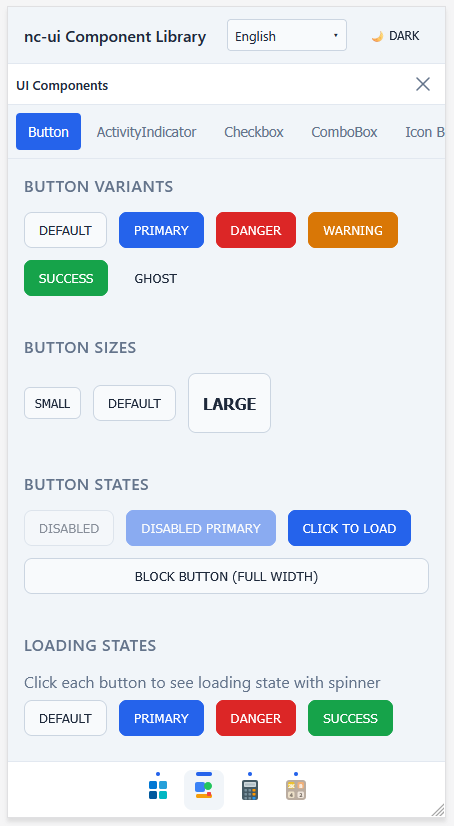
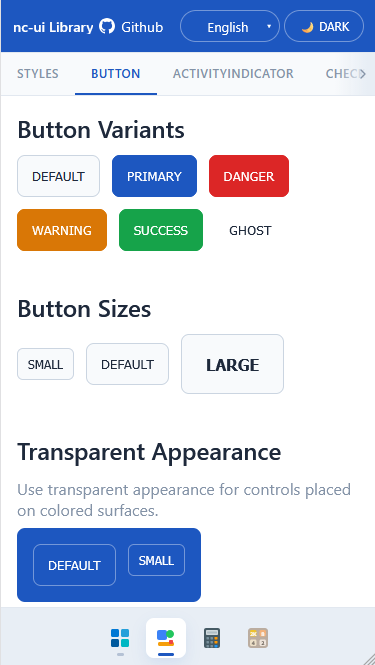
update demo images

diff --git a/README.md b/README.md
@@ -29,18 +29,20 @@ pnpm add @kingsimba/nc-ui
 ## Quick Start
 
 ```tsx
-import { Button, ActivityIndicator } from '@kingsimba/nc-ui'
-import '@kingsimba/nc-ui/styles.css'
+import { Button, ActivityIndicator } from "@kingsimba/nc-ui";
+import "@kingsimba/nc-ui/styles.css";
 
 function App() {
   return (
     <div>
       <Button variant="primary">Click me</Button>
-      <Button variant="danger" size="small">Delete</Button>
+      <Button variant="danger" size="small">
+        Delete
+      </Button>
       <Button loading>Saving...</Button>
       <ActivityIndicator size="large" />
     </div>
-  )
+  );
 }
 ```
 
@@ -49,7 +51,7 @@ function App() {
 Icons are imported from a separate entry point to keep the main bundle size small:
 
 ```tsx
-import { CloseIcon, EditIcon, TrashIcon } from '@kingsimba/nc-ui/icons'
+import { CloseIcon, EditIcon, TrashIcon } from "@kingsimba/nc-ui/icons";
 
 function MyComponent() {
   return (
@@ -58,7 +60,7 @@ function MyComponent() {
       <EditIcon size={20} color="#3b82f6" />
       <TrashIcon size={18} />
     </div>
-  )
+  );
 }
 ```
 
@@ -68,33 +70,33 @@ function MyComponent() {
 
 nc-ui provides 23+ ready-to-use components. Click any component to see it in the interactive demo:
 
-| Component | Description |
-|-----------|-------------|
-| [ActivityIndicator](https://kingsimba.github.io/nc-ui/?app=ui-components&tab=activity) | Loading spinner with size variants and overlay mode |
-| [Alert](https://kingsimba.github.io/nc-ui/?app=ui-components&tab=alert) | Status banners with simple content, optional dismissal, and legacy code/text support |
-| [AppDialog](https://kingsimba.github.io/nc-ui/?app=ui-components&tab=app-dialog) | Render any registered app inside a dialog overlay |
-| [Battery](https://kingsimba.github.io/nc-ui/?app=ui-components&tab=battery) | Visual battery level indicator |
-| [Button](https://kingsimba.github.io/nc-ui/?app=ui-components&tab=buttons) | Primary action button with variants, sizes, and loading states |
-| [ButtonGroup](https://kingsimba.github.io/nc-ui/?app=ui-components&tab=button-group) | Segmented control for switching between predefined options |
-| [Checkbox](https://kingsimba.github.io/nc-ui/?app=ui-components&tab=checkbox) | Toggle selection with indeterminate state support |
-| [CommonButtons](https://kingsimba.github.io/nc-ui/?app=ui-components&tab=buttons-icon) | Pre-configured buttons (Close, Edit, Refresh, Trash) |
-| [ComboBox](https://kingsimba.github.io/nc-ui/?app=ui-components&tab=combobox) | Searchable dropdown with autocomplete |
-| [ContextMenu](https://kingsimba.github.io/nc-ui/?app=ui-components&tab=context-menu) | Right-click menu with customizable items |
-| [CsvTextArea](https://kingsimba.github.io/nc-ui/?app=ui-components&tab=csv-textarea) | Tab-separated text editor with per-column color highlighting |
-| [Dialog](https://kingsimba.github.io/nc-ui/?app=ui-components&tab=dialog) | Modal dialogs with header, footer, and action buttons |
-| [Hyperlink](https://kingsimba.github.io/nc-ui/?app=ui-components&tab=hyperlink) | Styled anchor/link component |
-| [Icons](https://kingsimba.github.io/nc-ui/?app=ui-components&tab=icons) | 50+ SVG icons (separate import path) |
-| [Input](https://kingsimba.github.io/nc-ui/?app=ui-components&tab=input) | Text input with validation states and prefix/suffix support |
-| [ListGroup](https://kingsimba.github.io/nc-ui/?app=ui-components&tab=list-group) | Grouped content sections built from `ListGroupItem` children |
-| [MonthRangePicker](https://kingsimba.github.io/nc-ui/?app=ui-components&tab=month-range) | Month range selector with validation (YY-M(M) or YYYY-M(M) format) |
-| [MultiSelect](https://kingsimba.github.io/nc-ui/?app=ui-components&tab=multi-select) | Multi-selection dropdown with tag display |
-| [NavStack](https://kingsimba.github.io/nc-ui/?app=ui-components&tab=nav-stack) | Stack-based navigation for mobile-style settings UIs |
-| [Notification](https://kingsimba.github.io/nc-ui/?app=ui-components&tab=notification) | Toast-style notifications with auto-dismiss and stacking |
-| [NumberInput](https://kingsimba.github.io/nc-ui/?app=ui-components&tab=number-input) | Numeric input with increment/decrement controls |
-| [Slider](https://kingsimba.github.io/nc-ui/?app=ui-components&tab=slider) | Range slider with value display |
-| [Tabs](https://kingsimba.github.io/nc-ui/?app=ui-components&tab=tabs) | Tabbed navigation component |
-| [Toggle](https://kingsimba.github.io/nc-ui/?app=ui-components&tab=toggle) | Switch/toggle with on/off states |
-| [YamlTextArea](https://kingsimba.github.io/nc-ui/?app=ui-components&tab=yaml-textarea) | YAML editor with syntax highlighting and validation |
+| Component                                                                                | Description                                                                          |
+| ---------------------------------------------------------------------------------------- | ------------------------------------------------------------------------------------ |
+| [ActivityIndicator](https://kingsimba.github.io/nc-ui/?app=ui-components&tab=activity)   | Loading spinner with size variants and overlay mode                                  |
+| [Alert](https://kingsimba.github.io/nc-ui/?app=ui-components&tab=alert)                  | Status banners with simple content, optional dismissal, and legacy code/text support |
+| [AppDialog](https://kingsimba.github.io/nc-ui/?app=ui-components&tab=app-dialog)         | Render any registered app inside a dialog overlay                                    |
+| [Battery](https://kingsimba.github.io/nc-ui/?app=ui-components&tab=battery)              | Visual battery level indicator                                                       |
+| [Button](https://kingsimba.github.io/nc-ui/?app=ui-components&tab=buttons)               | Primary action button with variants, sizes, and loading states                       |
+| [ButtonGroup](https://kingsimba.github.io/nc-ui/?app=ui-components&tab=button-group)     | Segmented control for switching between predefined options                           |
+| [Checkbox](https://kingsimba.github.io/nc-ui/?app=ui-components&tab=checkbox)            | Toggle selection with indeterminate state support                                    |
+| [CommonButtons](https://kingsimba.github.io/nc-ui/?app=ui-components&tab=buttons-icon)   | Pre-configured buttons (Close, Edit, Refresh, Trash)                                 |
+| [ComboBox](https://kingsimba.github.io/nc-ui/?app=ui-components&tab=combobox)            | Searchable dropdown with autocomplete                                                |
+| [ContextMenu](https://kingsimba.github.io/nc-ui/?app=ui-components&tab=context-menu)     | Right-click menu with customizable items                                             |
+| [CsvTextArea](https://kingsimba.github.io/nc-ui/?app=ui-components&tab=csv-textarea)     | Tab-separated text editor with per-column color highlighting                         |
+| [Dialog](https://kingsimba.github.io/nc-ui/?app=ui-components&tab=dialog)                | Modal dialogs with header, footer, and action buttons                                |
+| [Hyperlink](https://kingsimba.github.io/nc-ui/?app=ui-components&tab=hyperlink)          | Styled anchor/link component                                                         |
+| [Icons](https://kingsimba.github.io/nc-ui/?app=ui-components&tab=icons)                  | 50+ SVG icons (separate import path)                                                 |
+| [Input](https://kingsimba.github.io/nc-ui/?app=ui-components&tab=input)                  | Text input with validation states and prefix/suffix support                          |
+| [ListGroup](https://kingsimba.github.io/nc-ui/?app=ui-components&tab=list-group)         | Grouped content sections built from `ListGroupItem` children                         |
+| [MonthRangePicker](https://kingsimba.github.io/nc-ui/?app=ui-components&tab=month-range) | Month range selector with validation (YY-M(M) or YYYY-M(M) format)                   |
+| [MultiSelect](https://kingsimba.github.io/nc-ui/?app=ui-components&tab=multi-select)     | Multi-selection dropdown with tag display                                            |
+| [NavStack](https://kingsimba.github.io/nc-ui/?app=ui-components&tab=nav-stack)           | Stack-based navigation for mobile-style settings UIs                                 |
+| [Notification](https://kingsimba.github.io/nc-ui/?app=ui-components&tab=notification)    | Toast-style notifications with auto-dismiss and stacking                             |
+| [NumberInput](https://kingsimba.github.io/nc-ui/?app=ui-components&tab=number-input)     | Numeric input with increment/decrement controls                                      |
+| [Slider](https://kingsimba.github.io/nc-ui/?app=ui-components&tab=slider)                | Range slider with value display                                                      |
+| [Tabs](https://kingsimba.github.io/nc-ui/?app=ui-components&tab=tabs)                    | Tabbed navigation component                                                          |
+| [Toggle](https://kingsimba.github.io/nc-ui/?app=ui-components&tab=toggle)                | Switch/toggle with on/off states                                                     |
+| [YamlTextArea](https://kingsimba.github.io/nc-ui/?app=ui-components&tab=yaml-textarea)   | YAML editor with syntax highlighting and validation                                  |
 
 ## App Framework
 
@@ -111,37 +113,37 @@ nc-ui includes a complete framework for building panel-based applications that r
 ### Quick Example
 
 ```tsx
-import React from 'react'
-import { appRegistry, runningAppsStore, useApp } from '@kingsimba/nc-ui'
-import { MyAppIcon } from './MyAppIcon'
+import React from "react";
+import { appRegistry, runningAppsStore, useApp } from "@kingsimba/nc-ui";
+import { MyAppIcon } from "./MyAppIcon";
 
 // 1. Create your app component
 function MyApp() {
-  const { setTitle, close } = useApp()
-  
+  const { setTitle, close } = useApp();
+
   return (
     <div>
       <h1>My App</h1>
       <button onClick={close}>Close</button>
     </div>
-  )
+  );
 }
 
 // 2. Register the app (with lazy loading)
-const LazyMyApp = React.lazy(() => 
-  import('./MyApp').then(m => ({ default: m.MyApp }))
-)
+const LazyMyApp = React.lazy(() =>
+  import("./MyApp").then((m) => ({ default: m.MyApp })),
+);
 
 appRegistry.register({
-  id: 'my-app',
-  titleKey: 'apps.myApp.name',
+  id: "my-app",
+  titleKey: "apps.myApp.name",
   icon: MyAppIcon,
   component: LazyMyApp,
   width: 400,
-})
+});
 
 // 3. Launch the app
-await runningAppsStore.launchApp('my-app')
+await runningAppsStore.launchApp("my-app");
 ```
 
 ### App-Specific i18n
@@ -149,20 +151,20 @@ await runningAppsStore.launchApp('my-app')
 Each app can have isolated translations that won't conflict with other apps:
 
 ```tsx
-import { createAppI18nFactory } from '@kingsimba/nc-ui'
-import { I18nextProvider } from 'react-i18next'
+import { createAppI18nFactory } from "@kingsimba/nc-ui";
+import { I18nextProvider } from "react-i18next";
 
 const myAppI18n = createAppI18nFactory({
-  en: { title: 'My App', save: 'Save' },
-  zh: { title: '我的应用', save: '保存' },
-})
+  en: { title: "My App", save: "Save" },
+  zh: { title: "我的应用", save: "保存" },
+});
 
 export function MyApp() {
   return (
     <I18nextProvider i18n={myAppI18n}>
       <MyAppContent />
     </I18nextProvider>
-  )
+  );
 }
 ```
 
@@ -228,4 +230,3 @@ All CSS classes and variables use `nc-` prefix to avoid conflicts:
 - Variables: `--nc-primary`, `--nc-button-bg`, etc.
 - Classes: `.nc-button`, `.nc-activity-indicator`, etc.
 - Modifiers: `.nc-primary`, `.nc-small`, `.nc-loading`, etc.
-